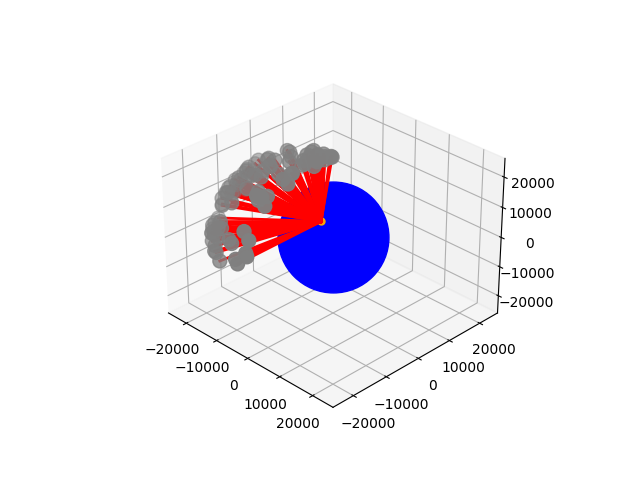
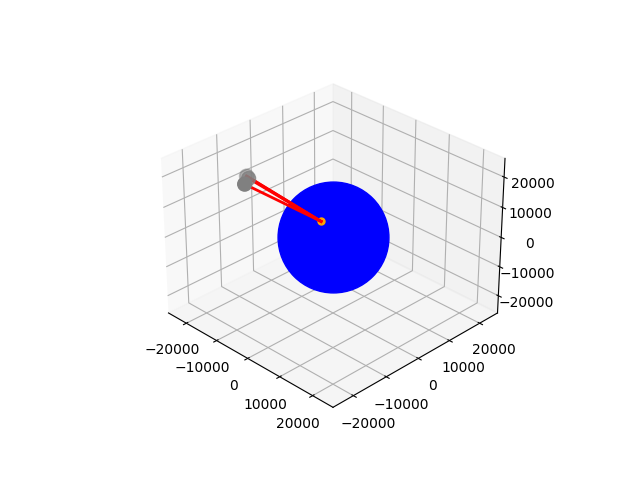
kannski búið idk, þarf örgl að keyra aftur með réttum hornagildum og gera plot3d

Changed region(s): [[0.3125, 0.2812, 0.5312, 0.5625]]

diff --git a/test_fixture.py b/test_fixture.py
@@ -1,7 +1,9 @@
 import math
 import numpy as np
-from Satelite import SateliteConnection, SateliteSystem
+from typing import Callable
+from Satelite import SateliteConnection, SateliteSystem, DynamicSystem
 from Methods import angle_to_coordinates
+import pandas as pd
 
 class TestGps:
 
@@ -22,12 +24,21 @@ class TestGps:
         """ Returns an initial guess in the middle of the section where the request came from """
         return np.array([*angle_to_coordinates(SateliteSystem.earth_radius, *self.__initial_guess), self.d])
 
-    def get_satelites(self, phi_diff = math.pi/2, theta_diff = 2*math.pi, rho = 26570, n = 4) -> list[SateliteConnection]:
+    def get_random_satelites(self, phi_diff = math.pi/2, theta_diff = 2*math.pi, rho = 26570, n = 4) -> list[SateliteConnection]:
         receiver_pos = self.get_receiver_pos()
         phi, theta = self.__initial_guess
 
         phi_values = np.random.uniform(phi-phi_diff, phi+phi_diff, n)
         theta_values = np.random.uniform(theta-theta_diff, theta+theta_diff, n)
+
+        return [self.make_satelite(rho, p, t, receiver_pos) for (p,t) in zip(phi_values, theta_values)]
+
+    def get_linspace_satelites(self, phi_diff = math.pi/2, theta_diff = 2*math.pi, rho = 26570, n = 4) -> list[SateliteConnection]:
+        receiver_pos = self.get_receiver_pos()
+        phi, theta = self.__initial_guess
+
+        phi_values = np.linspace(phi-phi_diff, phi+phi_diff, n)
+        theta_values = np.linspace(theta-theta_diff, theta+theta_diff, n)
 
         return [self.make_satelite(rho, p, t, receiver_pos) for (p,t) in zip(phi_values, theta_values)]
 
@@ -39,10 +50,24 @@ class TestGps:
         return SateliteConnection(A, B, C, t)
 
 
-# receiver = (math.pi*2, math.pi/2)
-# test = TestGps(receiver)
+SateliteGenerator = Callable[[], list[SateliteConnection]]
 
-# print(receiver)
-# init = test.get_initial_guess()
-# print(init)
-# print(test.angle_to_coordinates(22000, *init))
+def run_tests(test_fixt: TestGps, sat_gen: SateliteGenerator, n_in: int = 50, n_out: int = 10, t_err_min: float = 10**(-12), t_err_max: float = 10**(-8)) -> pd.DataFrame:
+    df = pd.DataFrame(index=list(range(n_out)), columns=["min_pos_error", "avg_pos_error", "max_pos_error", "condition_number"])
+
+    for i in range(n_out):
+        guess = test_fixt.get_initial_guess()
+
+        ds = DynamicSystem(sat_gen())
+        pe_hist = np.zeros(n_in)
+        emf_hist = np.zeros(n_in)
+
+        for j in range(n_in):
+            pe_hist[j], emf_hist[j] = ds.compute_EMF(guess, t_err_min, t_err_max)
+        
+        df.at[i, "min_pos_error"] = np.amin(pe_hist)*1000
+        df.at[i, "avg_pos_error"] = np.average(pe_hist)*1000
+        df.at[i, "max_pos_error"] = np.amax(pe_hist)*1000
+        df.at[i, "condition_number"] = np.amax(emf_hist)
+
+    return df

diff --git a/d6.py b/d6.py
@@ -1,36 +1,25 @@
-import math
 import numpy as np
-
-from Satelite import DynamicSystem
+import math
+from Satelite import DynamicSystem, SateliteConnection
 from gps_plot import plot_satelites
+from test_fixture import TestGps, run_tests, SateliteGenerator
+from functools import partial
+
 
 if __name__ == '__main__':
+    receiver = (2, 1)
+    test = TestGps(receiver)
     
-    num_iterations: int = 50
-    t_err_min: float = 10**(-12)
-    t_err_max: float = 10**(-8)
+    sat_gen_linspace: SateliteGenerator = partial(test.get_linspace_satelites, phi_diff=math.pi/4, theta_diff=0.75*math.pi/2, n=8)
+    sat_gen_random: SateliteGenerator = partial(test.get_random_satelites, phi_diff=math.pi/4, theta_diff=0.75*math.pi/2, n=8)  
+    df_lin = run_tests(test, sat_gen_linspace, n_in=50, n_out=5)
+    df_rand = run_tests(test, sat_gen_random, n_in=50, n_out=5)
+    print(df_lin)
+    print(df_rand)
 
-    
-    guess = np.array([6370,0,0,0.0001])
-    guess2 = np.array([0,0,-6370,0.0001])
-    # guess2 = np.array([6000,2000,700,0.0001])
-    ds = DynamicSystem(n=128, guess=tuple(guess[:-1]))
-    # ds2 = DynamicSystem(n=8, guess=tuple(guess2[:-1]))
-    # pos1 = ds1.solve(guess1)
-    # # pos2 = ds2.solve(guess2)
-    # print(pos1)
-    # # print(pos2)
-
-    # plot_satelites(ds1, pos1)
-    # plot_satelites(ds2, pos2)
-
-    pe, emf, pos = ds.compute_EMF(np.array(guess), t_err_min, t_err_max, num_iterations)
-    pos = ds.solve(np.array(guess))
-    print(f"With error rates ranging from {t_err_min} to {t_err_max} and {num_iterations} iterations we got:")
-    print(f" a minimum position error of: {min(pe)*1000:.2f} meters,")
-    print(f" an average position error of: {sum(pe)/len(pe)*1000:.2f} meters,")
-    print(f" a maximum position error of: {max(pe)*1000:.2f} meters,")
-    print(f" and the condition number of the problem is: {max(emf)}")
-    
-    print(pos)
-    plot_satelites(ds, pos)
+    # ds = DynamicSystem(sat_gen())
+    # pos = ds.solve_GN(test.get_initial_guess())
+    # print(pos)
+    # print(test.get_receiver_pos())
+    # print("error: ", math.sqrt(sum([(x-y)**2 for x,y in zip(pos[:-1], test.get_receiver_pos())])))
+    # plot_satelites(ds, pos)

diff --git a/Satelite.py b/Satelite.py
@@ -84,30 +84,21 @@ class SateliteSystem:
 
 class DynamicSystem(SateliteSystem):
 
-    def compute_EMF(self, position: np.ndarray, t_err_min: float = 10**(-12), t_err_max: float = 10**(-8), num_iterations = 10) -> tuple[list[float],list[float]]: #t_error á mögulega að vera mismunandi gildi.. ?? 
-        position_errors = []
-        emfs = []
-        for _ in range(num_iterations):
-            old_pos = self.solve_GN(position)
-            old_pos_times = np.array([satelite.t for satelite in self.satelites])
+    def compute_EMF(self, position: np.ndarray, t_err_min: float = 10**(-12), t_err_max: float = 10**(-8)) -> tuple[float, float]: #t_error á mögulega að vera mismunandi gildi.. ?? 
+        old_pos = self.solve_GN(position)
+        old_pos_times = np.array([satelite.t for satelite in self.satelites])
+        diff_pos_times = np.zeros_like(old_pos_times)
+        for i,satelite in enumerate(self.satelites):
+            t_error = uniform(t_err_min, t_err_max)*(-1)**randint(0,1) #different values for ti
+            satelite.t += t_error
+            diff_pos_times[i] = np.abs(t_error)
 
-            diff_pos_times = np.zeros_like(old_pos_times)
-            for i,satelite in enumerate(self.satelites):
-                t_error = uniform(t_err_min, t_err_max)*(-1)**randint(0,1) #different values for ti
-                satelite.t += t_error
-                diff_pos_times[i] = np.abs(t_error)
+        new_pos = self.solve_GN(position)
 
-            new_pos = self.solve_GN(position)
+        pos_change = np.abs(old_pos - new_pos)
+        emf = np.amax(pos_change)/(SateliteSystem.speed_of_light*np.amax(diff_pos_times))
+        position_error = distance(new_pos, old_pos)
 
-            pos_change = np.abs(old_pos - new_pos)
-            emf = np.amax(pos_change)/(SateliteSystem.speed_of_light*np.amax(diff_pos_times))
-            position_error = distance(new_pos, old_pos)
-       
-            position_errors.append(position_error)
-            emfs.append(emf)
-
-        return position_errors, emfs
-
-
+        return position_error, emf
 
 

diff --git a/d4.py b/d4.py
@@ -1,31 +1,24 @@
 import numpy as np
 import math
-from Satelite import DynamicSystem
+from Satelite import DynamicSystem, SateliteConnection
 from gps_plot import plot_satelites
-from test_fixture import TestGps
+from test_fixture import TestGps, run_tests, SateliteGenerator
+from functools import partial
+
 
 if __name__ == '__main__':
-    
-    num_iterations: int = 50
-    t_err_min: float = 10**(-12)
-    t_err_max: float = 10**(-8)
-
     receiver = (2, 1)
     test = TestGps(receiver)
+    
+    sat_gen_linspace: SateliteGenerator = partial(test.get_linspace_satelites, phi_diff=math.pi/4, theta_diff=0.75*math.pi/2, n=4)
+    sat_gen_random: SateliteGenerator = partial(test.get_random_satelites, phi_diff=math.pi/4, theta_diff=0.75*math.pi/2, n=4)  
+    df_lin = run_tests(test, sat_gen_linspace, n_in=50, n_out=5)
+    df_rand = run_tests(test, sat_gen_random, n_in=50, n_out=5)
+    print(df_lin)
+    print(df_rand)
 
-    satelites = test.get_satelites(phi_diff=math.pi/4, theta_diff=math.pi/4, n=4)
-    guess = np.array(test.get_initial_guess())
-
-    ds = DynamicSystem(satelites)
-
-    pe, emf = ds.compute_EMF(np.array(guess), t_err_min, t_err_max, num_iterations)
-    print(f"With error rates ranging from {t_err_min} to {t_err_max} and {num_iterations} iterations we got:")
-    print(f" a minimum position error of: {min(pe)*1000:.2f} meters,")
-    print(f" an average position error of: {sum(pe)/len(pe)*1000:.2f} meters,")
-    print(f" a maximum position error of: {max(pe)*1000:.2f} meters,")
-    print(f" and the condition number of the problem is: {max(emf)}")
-
-    # pos = ds.solve_GN(np.array(guess))
+    # ds = DynamicSystem(sat_gen())
+    # pos = ds.solve_GN(test.get_initial_guess())
     # print(pos)
     # print(test.get_receiver_pos())
     # print("error: ", math.sqrt(sum([(x-y)**2 for x,y in zip(pos[:-1], test.get_receiver_pos())])))

diff --git a/d5.py b/d5.py
@@ -1,23 +1,27 @@
 import numpy as np
 import math
-from Satelite import DynamicSystem
+from Satelite import DynamicSystem, SateliteConnection
 from gps_plot import plot_satelites
+from test_fixture import TestGps, run_tests, SateliteGenerator
+from functools import partial
+
+
+
 
 if __name__ == '__main__':
+    receiver = (2, 1)
+    test = TestGps(receiver)
     
-    num_iterations: int = 100
-    t_err_min: float = 10**(-12)
-    t_err_max: float = 10**(-8)
+    sat_gen_linspace: SateliteGenerator = partial(test.get_linspace_satelites, phi_diff=math.pi/80, theta_diff=math.pi/20, n=4)
+    sat_gen_random: SateliteGenerator = partial(test.get_random_satelites, phi_diff=math.pi/80, theta_diff=math.pi/20, n=4)  
+    # df_lin = run_tests(test, sat_gen_linspace, n_in=50, n_out=5)
+    # df_rand = run_tests(test, sat_gen_random, n_in=50, n_out=5)
+    # print(df_lin)
+    # print(df_rand)
 
-    ds = DynamicSystem(theta_max=math.pi/10, phi_max=math.pi/40)
-    guess = np.array([0,0,6370,0.0001])
-    pe, emf, pos = ds.compute_EMF(guess, t_err_min, t_err_max, num_iterations)
-    #pos = ds.solve(guess)
-    print(f"With error rates ranging from {t_err_min} to {t_err_max} and {num_iterations} iterations we got:")
-    print(f" a minimum position error of: {min(pe)*1000:.2f} meters,")
-    print(f" an average position error of: {sum(pe)/len(pe)*1000:.2f} meters,")
-    print(f" a maximum position error of: {max(pe)*1000:.2f} meters,")
-    print(f" and the condition number of the problem is: {max(emf)}")
-
+    ds = DynamicSystem(sat_gen_random())
+    pos = ds.solve_GN(test.get_initial_guess())
     print(pos)
+    print(test.get_receiver_pos())
+    print("error: ", math.sqrt(sum([(x-y)**2 for x,y in zip(pos[:-1], test.get_receiver_pos())])))
     plot_satelites(ds, pos)

diff --git a/Methods.py b/Methods.py
@@ -24,4 +24,6 @@ def Jacobi_row(p: Point, p0: Point) -> Point:
     dist = distance(p, p0)
     return (p-p0)/dist  
     
+
+
     
